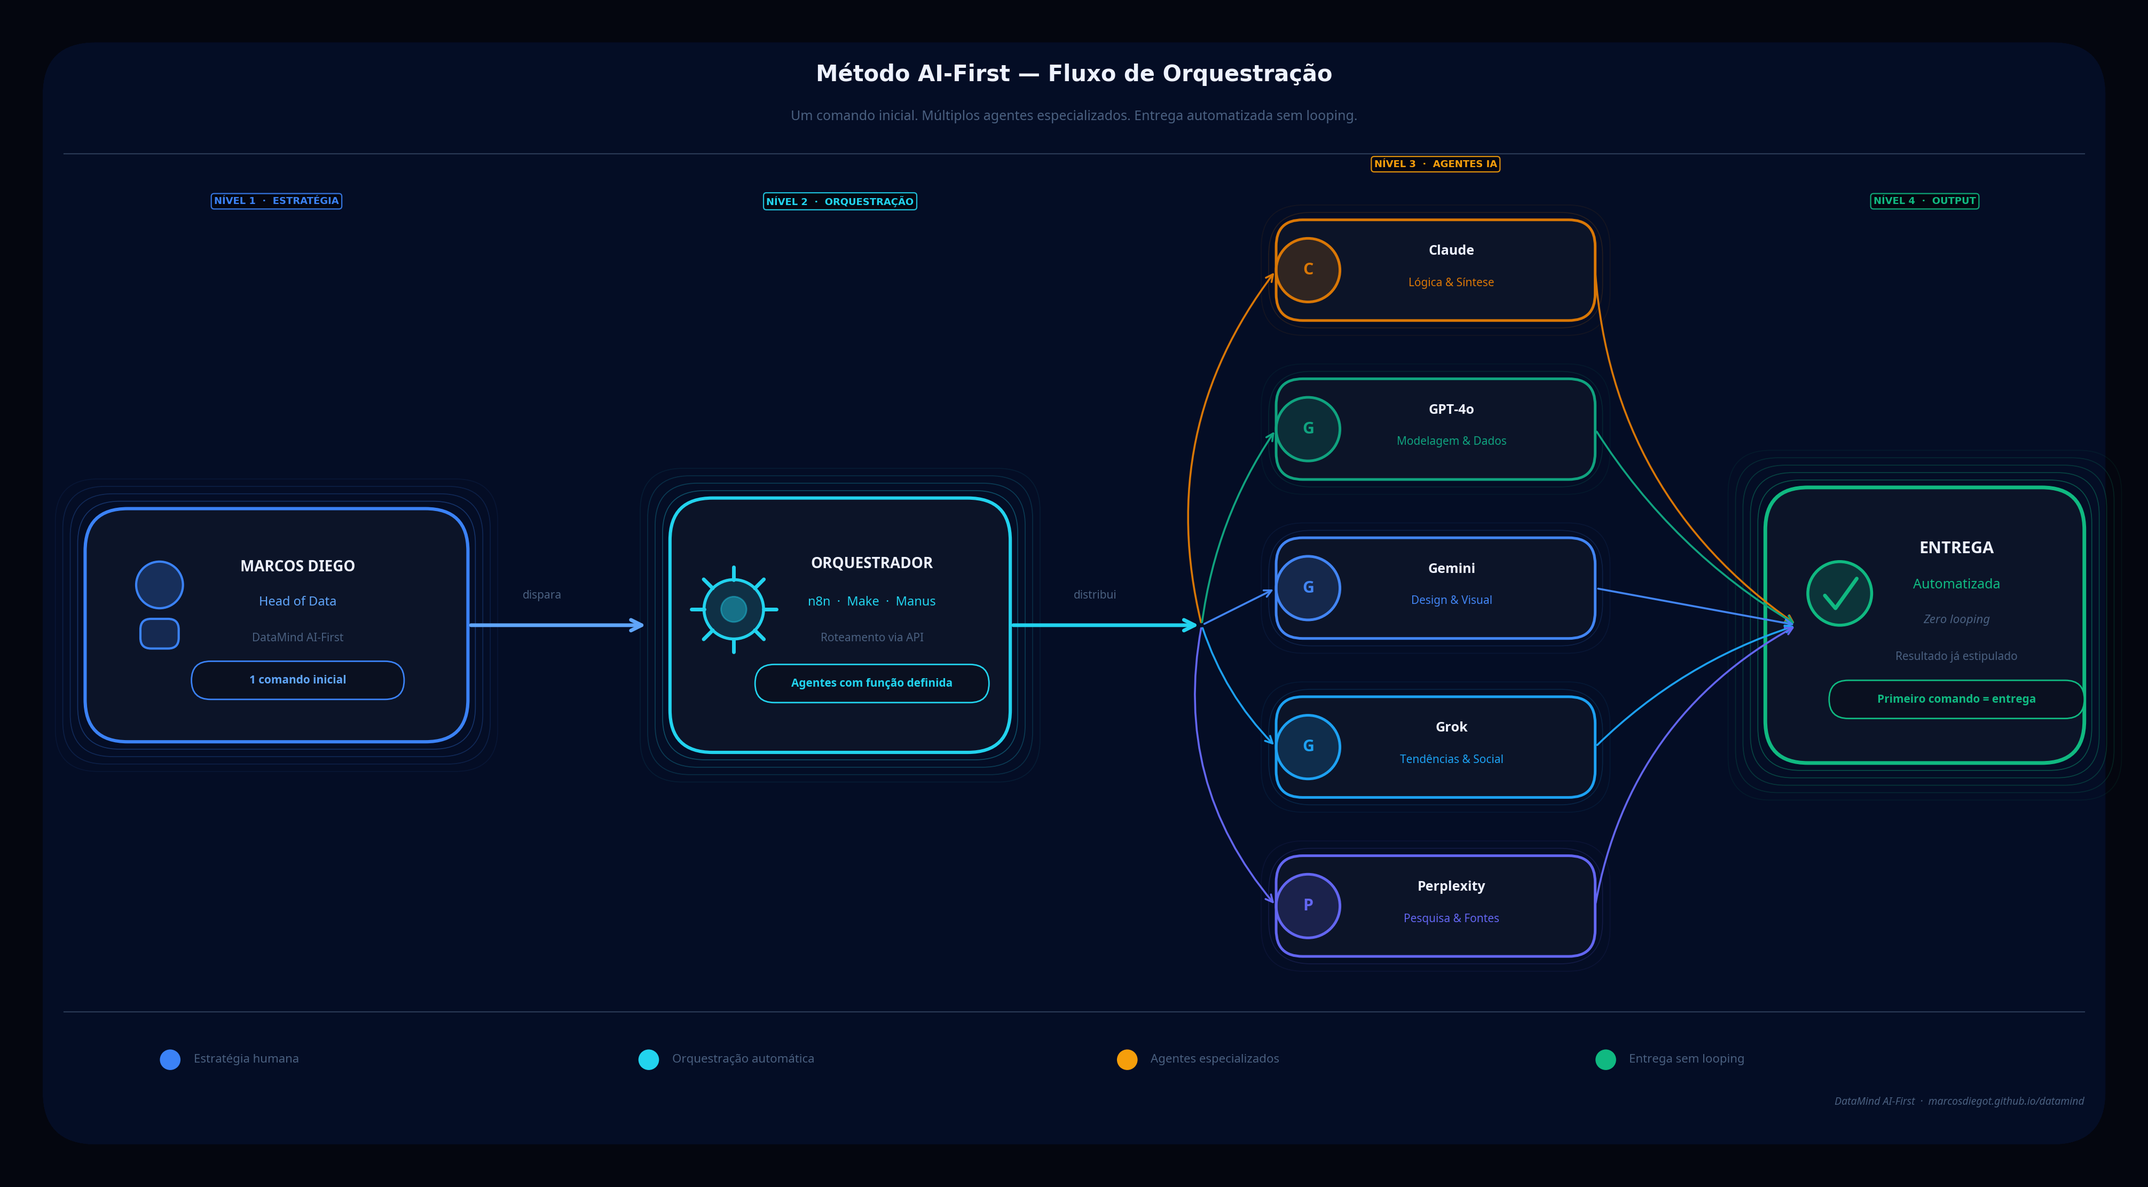
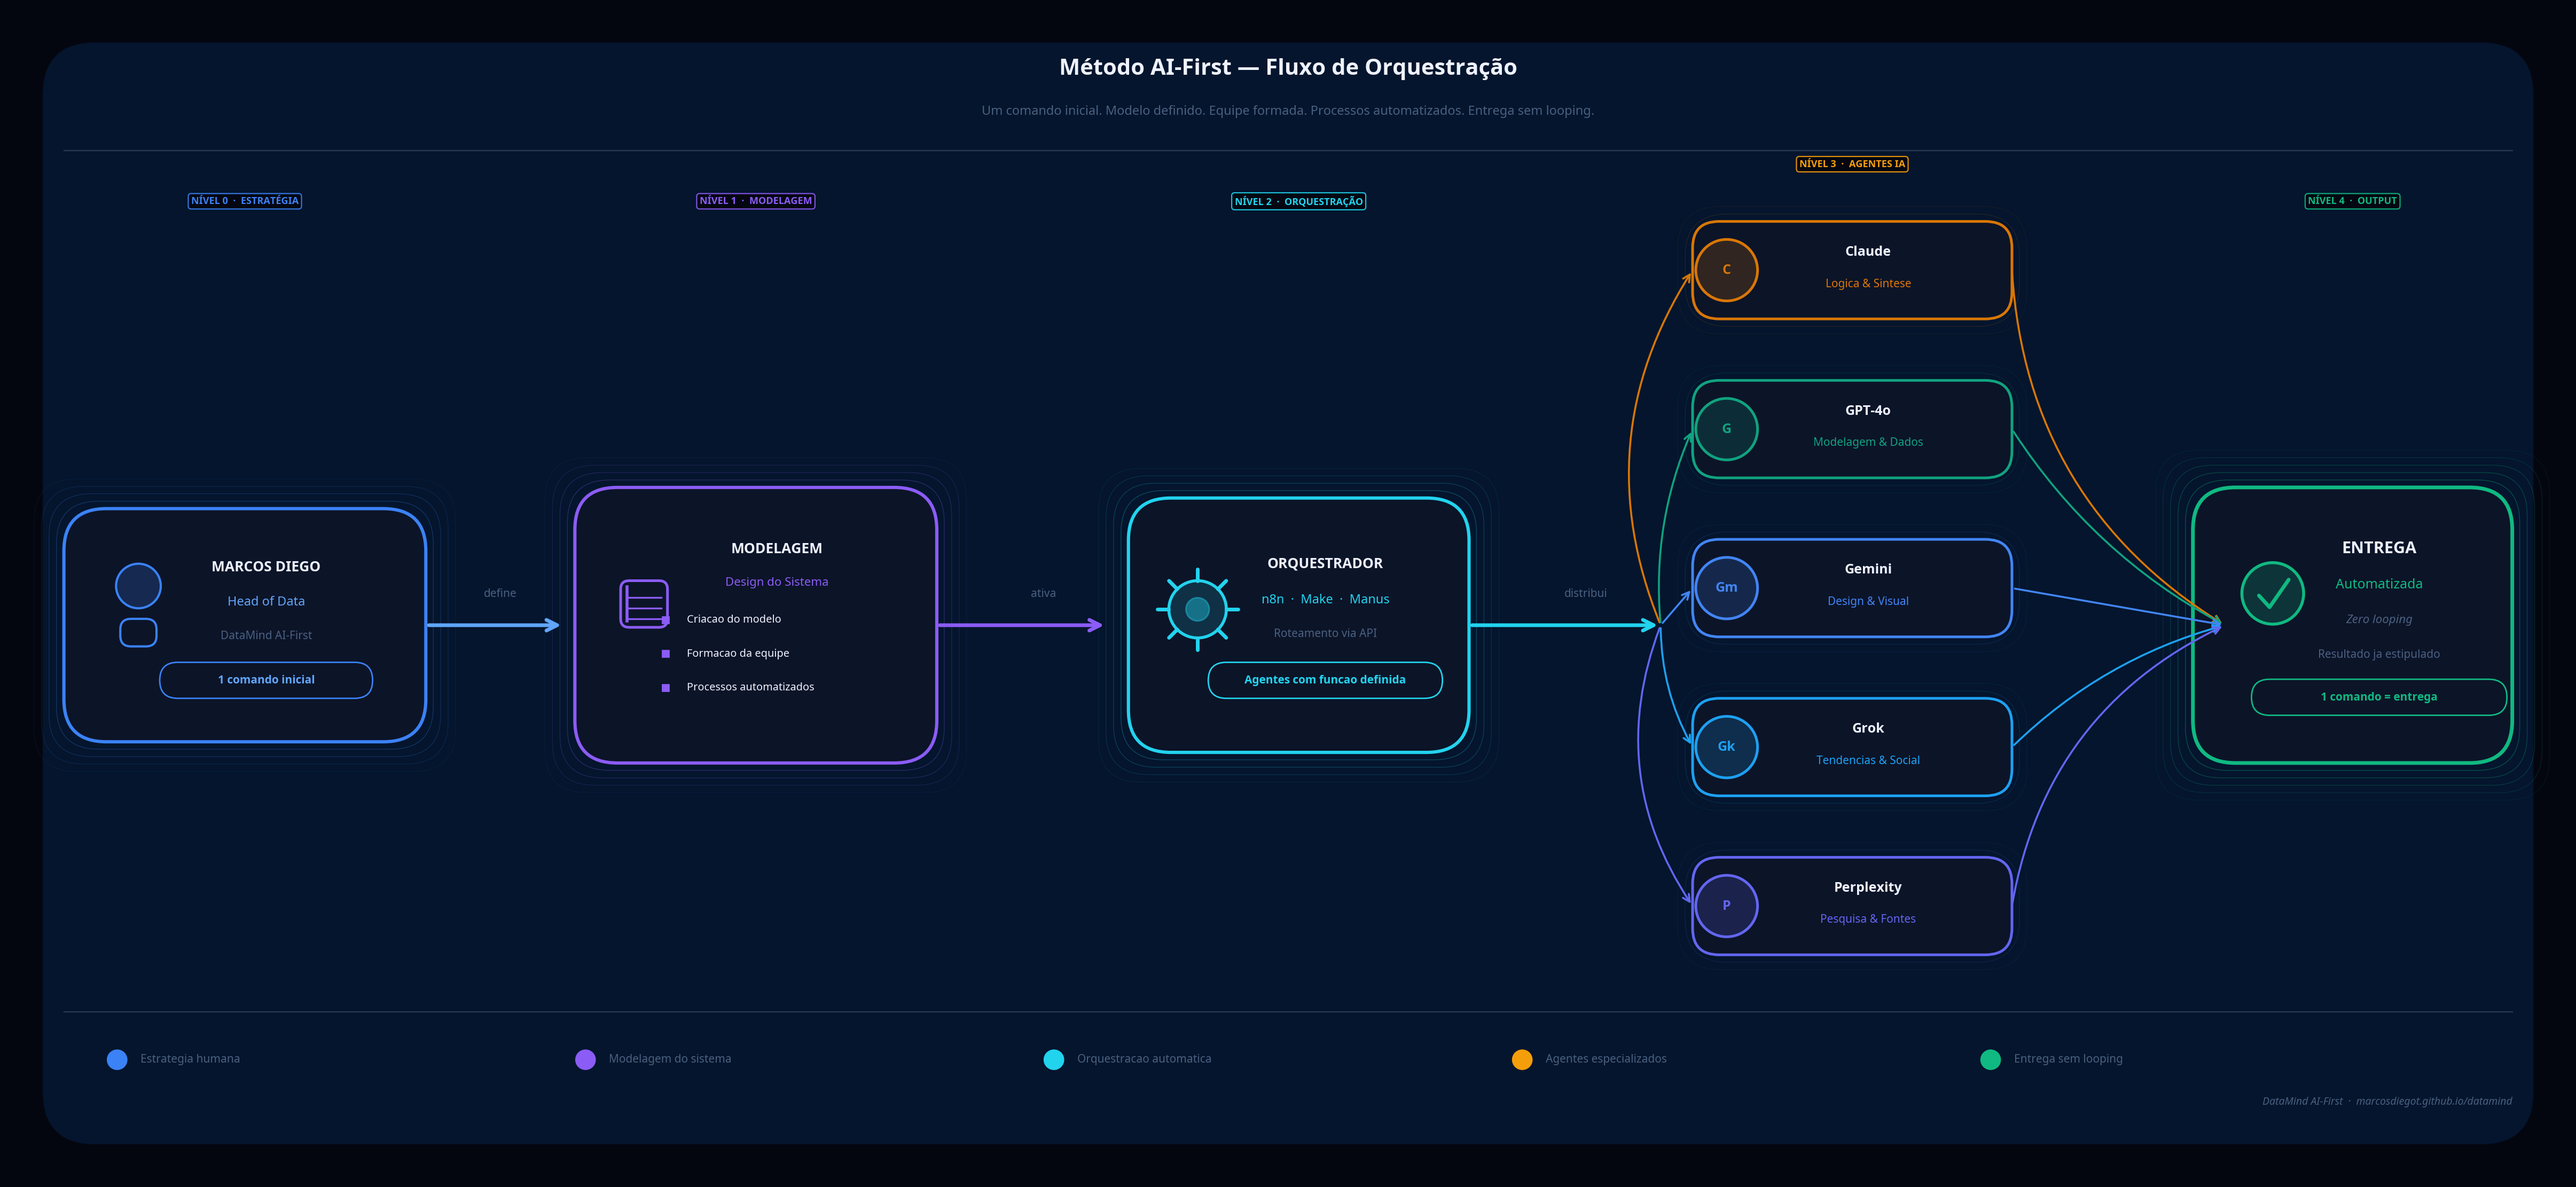
fix: remove badges foto hero, KPI FIA, diagrama 5 niveis com modelagem

diff --git a/index.html b/index.html
@@ -801,7 +801,7 @@ footer {
       </div>
       <div class="kpi-item">
         <div class="kpi-val">MBA</div>
-        <div class="kpi-label">FGV Executivo</div>
+        <div class="kpi-label">FIA · Analytics & IA</div>
       </div>
     </div>
   </div>
@@ -809,14 +809,6 @@ footer {
   <div class="hero-photo-wrap">
     <div class="hero-photo-frame">
       <img src="foto-diego.jpeg" alt="Marcos Diego Ribeiro — Head of Data">
-      <div class="hero-photo-badge">
-        <div class="badge-icon">🚀</div>
-        <div class="badge-text">
-          <strong>AI-First</strong>
-          Disponível para projetos
-        </div>
-      </div>
-      <div class="hero-photo-tag">Osasco · SP · Brasil</div>
     </div>
   </div>
 </section>
@@ -865,7 +857,7 @@ footer {
                style="width:100%;display:block;">
         </div>
         <p style="font-size:12px;color:var(--muted);margin-top:10px;text-align:center;">
-          Diego (Head) → Orquestrador (n8n / Make / Manus) → Agentes especializados via API → Entrega automatizada
+          Diego (Head) → Modelagem do sistema → Orquestrador (n8n / Make / Manus) → Agentes especializados via API → Entrega automatizada
         </p>
       </div>
     </div>
